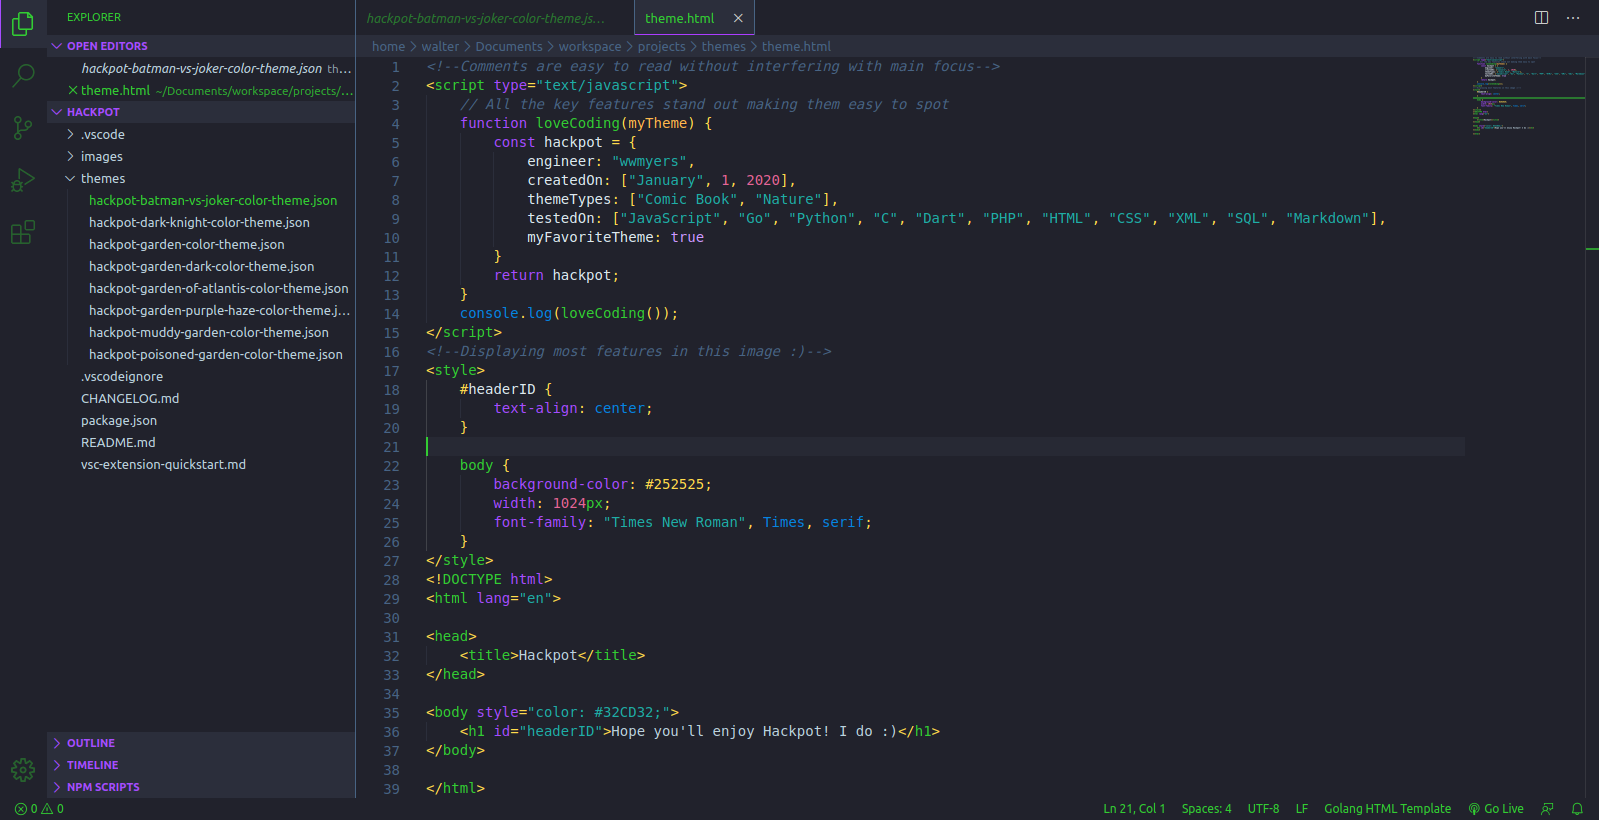
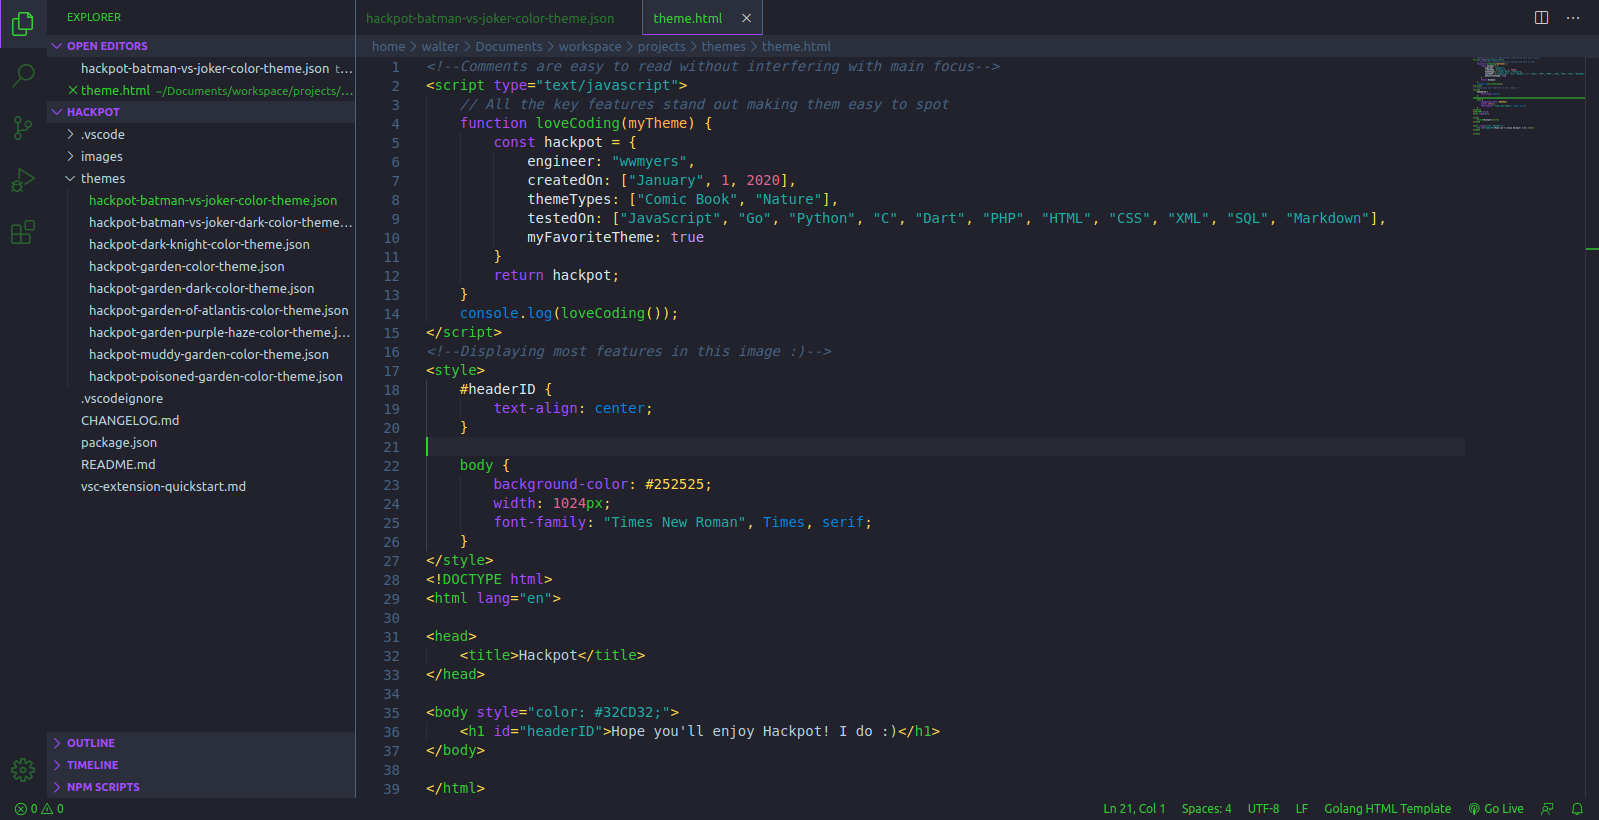
Add files via upload

Changed region(s): [[0.0306, 0.2439, 0.2145, 0.6098], [0.2758, 0.0, 0.4903, 0.0305], [0.0613, 0.061, 0.2145, 0.0915]]

diff --git a/README.md b/README.md
@@ -2,6 +2,7 @@
 
 #### Comic Book Themes
 * Hackpot Batman vs Joker (classic meets modern)
+* Hackpot Batman vs Joker Dark
 * Hackpot Dark Knight
 
 #### Garden Theme With 6 Background Color Options
@@ -14,6 +15,9 @@
 
 Hackpot Batman vs Joker
 ![hackpot](https://github.com/wwmyers/hackpot/raw/master/images/hackpotbatmanvsjoker.png)
+
+Hackpot Batman vs Joker Dark
+![hackpot](https://github.com/wwmyers/hackpot/raw/master/images/hackpotbatmanvsjokerdark.png)
 
 Hackpot Dark Knight
 ![hackpot](https://github.com/wwmyers/hackpot/raw/master/images/hackpotdarkknight.png)
@@ -38,8 +42,9 @@ Hackpot Poisoned Garden
 
 #### My personal favorites are :)
 1. Dark Knight
-2. Garden (original)
-3. Garden Of Atlantis
+2. Batman vs Joker Dark
+3. Garden (original)
+4. Garden Of Atlantis
 
 # Enjoy :)
 

diff --git a/CHANGELOG.md b/CHANGELOG.md
@@ -2,6 +2,11 @@
 
 #### All notable changes to the "Hackpot" extension will be documented in this file
 
+### Apr 27 2020
+* Added new theme Batman vs Joker Dark
+  * Saw how easy on the eyes Dark Knight was, so it inspired me :)
+  * I didn't want to replace Batman vs Joker so I added a darker option for it
+
 ### Apr 26 2020
 * Added new theme Dark Knight
   * Same as Batman vs Joker, but with a dark blue background
